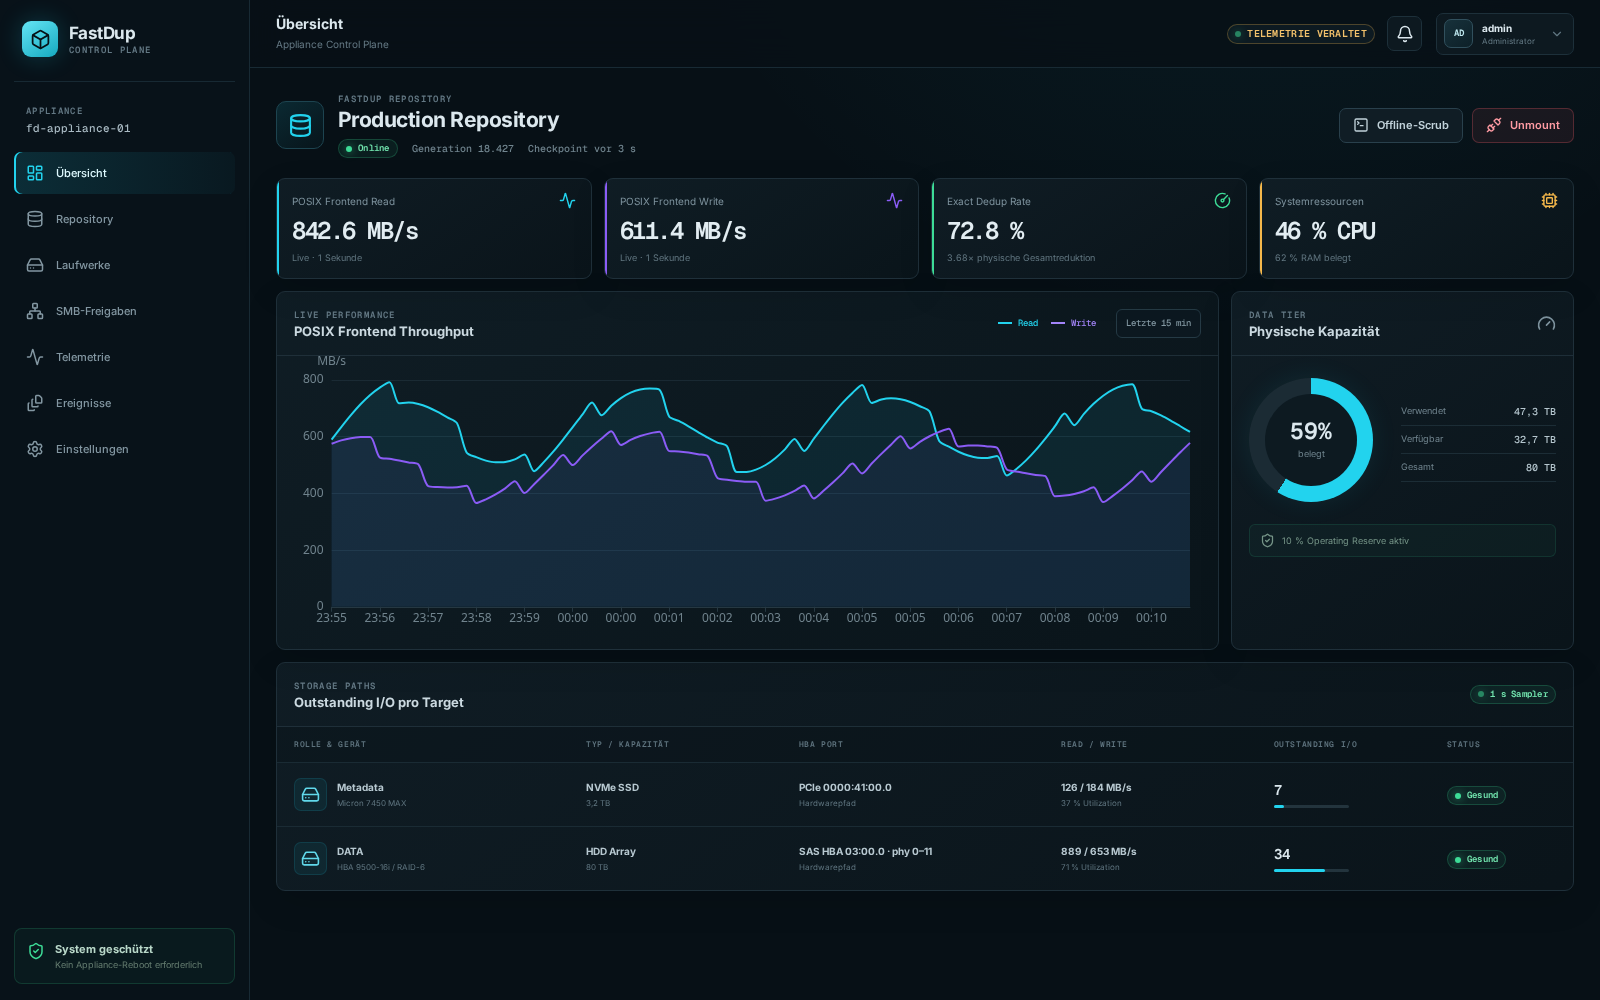
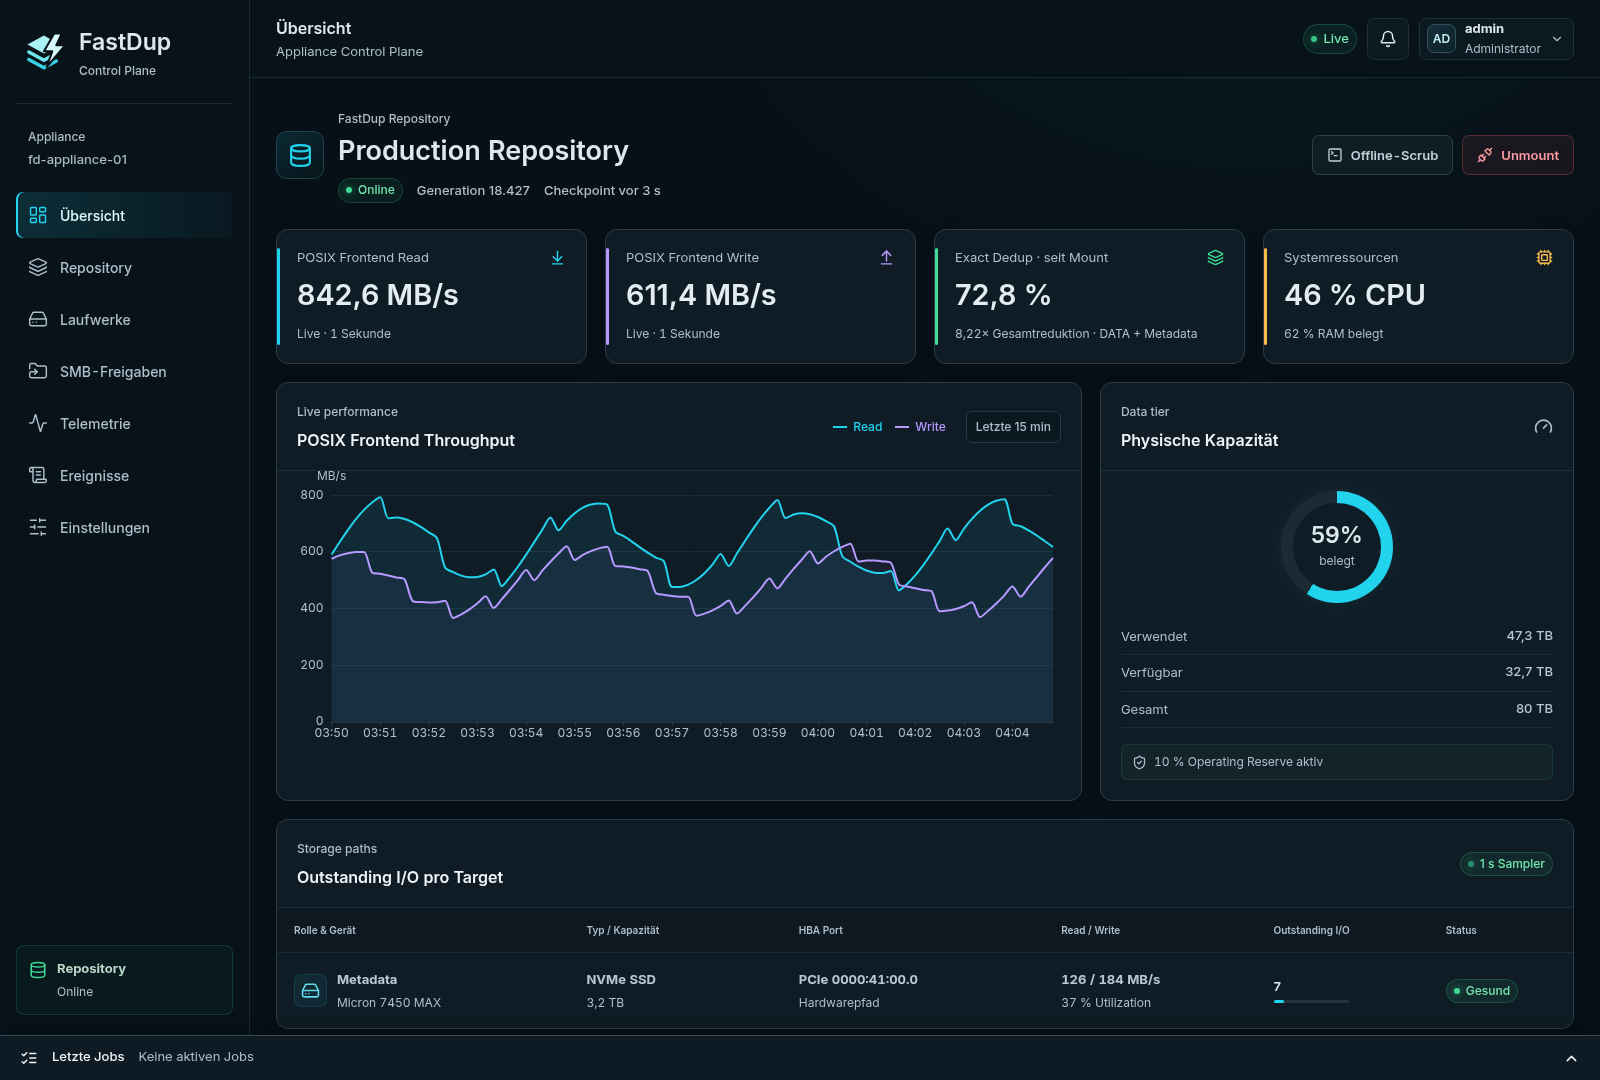
Release v0.7.3 with compressed caching and Runtime health fixes

diff --git a/docs/index.html b/docs/index.html
@@ -39,9 +39,9 @@
         "name": "fastdup",
         "applicationCategory": "StorageApplication",
         "operatingSystem": "Rocky Linux 10 x86-64",
-        "softwareVersion": "0.7.2",
+        "softwareVersion": "0.7.3",
         "license": "https://www.apache.org/licenses/LICENSE-2.0",
-        "downloadUrl": "https://github.com/ThatIsCraZy/fastdup/releases/download/v0.7.2/fastdup-0.7.2-1.el10.x86_64.rpm",
+        "downloadUrl": "https://github.com/ThatIsCraZy/fastdup/releases/download/v0.7.3/fastdup-0.7.3-1.el10.x86_64.rpm",
         "codeRepository": "https://github.com/ThatIsCraZy/fastdup"
       }
     </script>
@@ -109,12 +109,12 @@
           <div class="hero-actions">
             <a
               class="button primary lang-de"
-              href="https://github.com/ThatIsCraZy/fastdup/releases/download/v0.7.2/fastdup-0.7.2-1.el10.x86_64.rpm"
+              href="https://github.com/ThatIsCraZy/fastdup/releases/download/v0.7.3/fastdup-0.7.3-1.el10.x86_64.rpm"
               >RPM herunterladen <span>↓</span></a
             >
             <a
               class="button primary lang-en"
-              href="https://github.com/ThatIsCraZy/fastdup/releases/download/v0.7.2/fastdup-0.7.2-1.el10.x86_64.rpm"
+              href="https://github.com/ThatIsCraZy/fastdup/releases/download/v0.7.3/fastdup-0.7.3-1.el10.x86_64.rpm"
               >Download RPM <span>↓</span></a
             >
             <a class="button secondary lang-de" href="#installation"
@@ -133,7 +133,7 @@
             data.
           </p>
           <div class="compatibility">
-            <span>RPM v0.7.2</span><span>Rocky Linux 10</span><span>x86-64</span
+            <span>RPM v0.7.3</span><span>Rocky Linux 10</span><span>x86-64</span
             ><span>Rust</span>
           </div>
         </div>
@@ -145,7 +145,7 @@
             src="assets/webui-overview.png"
             alt="fastdup WebUI mit Repository-Zustand, Durchsatz und Kapazität"
             width="1600"
-            height="1000"
+            height="1080"
           />
           <div class="live-chip">
             <i></i><span class="lang-de">WebUI-Vorschau · Beispieldaten</span
@@ -156,16 +156,16 @@
 
       <div class="section-shell release-note">
         <p lang="de" class="lang-de">
-          <b>Neu in v0.7.2 · 09.09.2026:</b> Schnellere bytegenaue Veeam-Clones
-          durch Manifest-Cache und asynchrone Samba-Verarbeitung. Korrigierte
-          Speicherreduktion und übersichtliche Cache- und Lesevermeidungs-Telemetrie.
-          <a href="https://github.com/ThatIsCraZy/fastdup/releases/tag/v0.7.2">Release-Details ↗</a>
+          <b>Neu in v0.7.3 · 09.09.2026:</b> Komprimierter Verified-Read-Cache mit
+          sichtbarer RAM-Ersparnis. Metadata-GC-Crashfix, automatisches Bereinigen
+          toter FUSE-Mounts und klare Meldungen bei Runtime-Ausfällen oder Schreibpausen.
+          <a href="https://github.com/ThatIsCraZy/fastdup/releases/tag/v0.7.3">Release-Details ↗</a>
         </p>
         <p lang="en" class="lang-en">
-          <b>New in v0.7.2 · 9 September 2026:</b> Faster byte-exact Veeam clones
-          with a Manifest cache and asynchronous Samba dispatch. Correct storage
-          reduction and clearer cache and read-avoidance telemetry.
-          <a href="https://github.com/ThatIsCraZy/fastdup/releases/tag/v0.7.2">Release details ↗</a>
+          <b>New in v0.7.3 · 9 September 2026:</b> Compressed Verified Read caching with
+          visible RAM savings. A Metadata-GC crash fix, disconnected FUSE mount
+          cleanup, and clear status for Runtime outages or paused writes.
+          <a href="https://github.com/ThatIsCraZy/fastdup/releases/tag/v0.7.3">Release details ↗</a>
         </p>
       </div>
       <section class="trust-strip" aria-label="Produktmerkmale">
@@ -852,14 +852,14 @@
             <h3 class="lang-de">Betrieb überwachen</h3>
             <h3 class="lang-en">Monitor operations</h3>
             <p class="lang-de">
-              Durchsatz, Reduktion, Kapazität und Alarme im Blick. Die
-              überarbeitete Historien-Aggregation begrenzt den Speicherbedarf;
-              lange Abfragen laufen getrennt vom Netzwerk-Worker.
+              Durchsatz, Belegung und Cache-Wirkung im Blick. Die Top-Leiste
+              zeigt Runtime-Ausfälle und Schreibpausen auch bei erreichbarem
+              Agent. Cache-Trefferraten: letzte fünf Minuten oder seit Mount.
             </p>
             <p class="lang-en">
-              Track throughput, reduction, capacity, and alarms. Updated history
-              aggregation bounds memory use; long queries run separately from
-              the network worker.
+              Track throughput, storage usage and cache effectiveness. The top
+              bar shows Runtime outages and paused writes even while the agent
+              is reachable. Compare cache hits over five minutes or since mount.
             </p>
           </article>
           <article>
@@ -925,12 +925,31 @@
             loading="lazy"
           />
         </figure>
+        <figure class="screen-card">
+          <div>
+            <span class="number">03</span>
+            <h3 class="lang-de">Cache-Wirkung und RAM-Ersparnis</h3>
+            <h3 class="lang-en">Cache effectiveness and RAM savings</h3>
+            <p class="lang-de">
+              Weniger häufig genutzte Verified-Read-Einträge werden komprimiert,
+              wenn sich das lohnt. Die Telemetrie zeigt die tatsächliche
+              RAM-Belegung, enthaltene Nutzdaten und Kosten der Dekompression.
+            </p>
+            <p class="lang-en">
+              Less frequently reused Verified Read entries are compressed when
+              it saves memory. Telemetry shows resident RAM, represented payload
+              bytes, and the cost of decompression.
+            </p>
+          </div>
+          <img src="assets/webui-cache.png"
+            alt="Verified Read cache compression telemetry with sample data"
+            width="1298" height="1273" loading="lazy" />
+        </figure>
         <p class="preview-note lang-de">
-          Screenshots aus der echten React-WebUI mit den mitgelieferten
-          Preview-Daten.
+          WebUI-Vorschau mit synthetischen Beispieldaten.
         </p>
         <p class="preview-note lang-en">
-          Screenshots from the real React WebUI using its bundled preview data.
+          WebUI preview with synthetic sample data.
         </p>
       </section>
 
@@ -1215,10 +1234,10 @@
             </div>
             <pre
               id="install"
-            ><code>curl -fLO https://github.com/ThatIsCraZy/fastdup/releases/download/v0.7.2/fastdup-0.7.2-1.el10.x86_64.rpm &amp;&amp;
-curl -fLO https://github.com/ThatIsCraZy/fastdup/releases/download/v0.7.2/SHA256SUMS &amp;&amp;
+            ><code>curl -fLO https://github.com/ThatIsCraZy/fastdup/releases/download/v0.7.3/fastdup-0.7.3-1.el10.x86_64.rpm &amp;&amp;
+curl -fLO https://github.com/ThatIsCraZy/fastdup/releases/download/v0.7.3/SHA256SUMS &amp;&amp;
 sha256sum --check --ignore-missing SHA256SUMS &amp;&amp;
-sudo dnf install ./fastdup-0.7.2-1.el10.x86_64.rpm &amp;&amp;
+sudo dnf install ./fastdup-0.7.3-1.el10.x86_64.rpm &amp;&amp;
 sudo systemctl enable --now fastdup-agent.service fastdup-control.service</code></pre>
             <p id="copy-status" role="status" aria-live="polite"></p>
             <div class="terminal-result">
@@ -1518,22 +1537,22 @@ sudo systemctl enable --now fastdup-agent.service fastdup-control.service</code>
             See the WebUI. Install the RPM. Evaluate fastdup.
           </h2>
           <p class="lang-de">
-            Release 0.7.2 für Rocky Linux 10 auf x86-64. Forschungsprototyp —
+            Release 0.7.3 für Rocky Linux 10 auf x86-64. Forschungsprototyp —
             bitte nicht als einzige Kopie wichtiger Daten einsetzen.
           </p>
           <p class="lang-en">
-            Release 0.7.2 for Rocky Linux 10 on x86-64. Research prototype —
+            Release 0.7.3 for Rocky Linux 10 on x86-64. Research prototype —
             please do not use it as the only copy of important data.
           </p>
         </div>
         <div>
           <a
             class="button primary lang-de"
-            href="https://github.com/ThatIsCraZy/fastdup/releases/download/v0.7.2/fastdup-0.7.2-1.el10.x86_64.rpm"
+            href="https://github.com/ThatIsCraZy/fastdup/releases/download/v0.7.3/fastdup-0.7.3-1.el10.x86_64.rpm"
             >RPM herunterladen <span>↓</span></a
           ><a
             class="button primary lang-en"
-            href="https://github.com/ThatIsCraZy/fastdup/releases/download/v0.7.2/fastdup-0.7.2-1.el10.x86_64.rpm"
+            href="https://github.com/ThatIsCraZy/fastdup/releases/download/v0.7.3/fastdup-0.7.3-1.el10.x86_64.rpm"
             >Download RPM <span>↓</span></a
           ><a
             class="button secondary"

diff --git a/README.de.md b/README.de.md
@@ -15,9 +15,9 @@
 </p>
 
 <p align="center">
-  <strong><a href="https://github.com/ThatIsCraZy/fastdup/releases/download/v0.7.2/fastdup-0.7.2-1.el10.x86_64.rpm">RPM herunterladen</a></strong>
+  <strong><a href="https://github.com/ThatIsCraZy/fastdup/releases/download/v0.7.3/fastdup-0.7.3-1.el10.x86_64.rpm">RPM herunterladen</a></strong>
   · <a href="https://thatiscrazy.github.io/fastdup/">Produktseite</a>
-  · <a href="https://github.com/ThatIsCraZy/fastdup/releases/tag/v0.7.2">Release-Informationen</a>
+  · <a href="https://github.com/ThatIsCraZy/fastdup/releases/tag/v0.7.3">Release-Informationen</a>
 </p>
 
 fastdup ist eine experimentelle, softwaredefinierte Single-Node-
@@ -31,6 +31,25 @@ HTTPS-WebUI hält die Administration einfach.
 > fastdup ist ein Forschungsprototyp und kein produktionsreifes Backup-Produkt.
 > Verwende es nicht als einzige Kopie wichtiger Daten. Die aktuellen Grenzen
 > sind weiter unten aufgeführt.
+
+## Neu in v0.7.3 · 9. September 2026
+
+- Verified Read hält seltener wiederverwendete Nutzdaten unabhängig mit LZ4
+  komprimiert, wenn das RAM spart. Häufig genutzte Daten können dekomprimiert
+  bleiben; beide Darstellungen teilen sich das adaptive Cache-Budget.
+- Die Telemetrie zeigt direkt und komprimiert belegtes RAM, enthaltene Nutzdaten,
+  Speicherersparnis, Codec-Kosten und den begrenzten Arbeitsspeicher der Codecs.
+- Behebt den Metadata-GC-Absturz beim erneuten Veröffentlichen gleicher Inhalte
+  nach einer gleichzeitigen Pin-Freigabe oder unterbrochenen exakten Sammlung.
+- Runtime-Ausfälle und pausierte Schreibzugriffe bleiben in der Top-Leiste
+  sichtbar. Ein erreichbarer Agent gilt nicht mehr als gesundes Repository;
+  fehlende Runtime-Messpunkte verwerfen alte Durchsatzwerte.
+- Nach einem Crash bereinigt der Start einen getrennten FUSE-Mount unter der
+  Repository-Sperre und führt anschließend die normale Recovery aus.
+
+[Release-Details v0.7.3](docs/releases/v0.7.3.md) · RPM-Version **0.7.3-1**.
+[Cache-Prüfungen](docs/testing/compressed-read-cache-2026-09-09.md) ·
+[Crash- und Statusprüfungen](docs/testing/metadata-gc-crash-2026-09-09.md).
 
 ## Neu in v0.7.2 · 9. September 2026
 
@@ -194,11 +213,11 @@ Benötigt werden:
 Aktuelles Binärpaket herunterladen und installieren:
 
 ```bash
-curl -LO https://github.com/ThatIsCraZy/fastdup/releases/download/v0.7.2/fastdup-0.7.2-1.el10.x86_64.rpm
-curl -LO https://github.com/ThatIsCraZy/fastdup/releases/download/v0.7.2/SHA256SUMS
+curl -LO https://github.com/ThatIsCraZy/fastdup/releases/download/v0.7.3/fastdup-0.7.3-1.el10.x86_64.rpm
+curl -LO https://github.com/ThatIsCraZy/fastdup/releases/download/v0.7.3/SHA256SUMS
 sha256sum --check --ignore-missing SHA256SUMS
 
-sudo dnf install ./fastdup-0.7.2-1.el10.x86_64.rpm
+sudo dnf install ./fastdup-0.7.3-1.el10.x86_64.rpm
 sudo systemctl enable --now fastdup-agent.service fastdup-control.service
 ```
 
@@ -242,9 +261,9 @@ ausgeliefert. Über eine einzige Browseroberfläche kann ein Administrator:
 | --- | --- |
 | ![Repository-Belegung in der fastdup-WebUI](docs/assets/webui-drives.png) | ![Verwaltung von SMB-Freigaben in der fastdup-WebUI](docs/assets/webui-shares.png) |
 
-<p align="center"><em>Die Screenshots stammen automatisiert aus der echten React-WebUI und verwenden deren mitgelieferte Preview-Daten.</em></p>
+<p align="center"><em>WebUI-Vorschau mit synthetischen Beispieldaten.</em></p>
 
-![Cache-Trefferraten der letzten fünf Minuten mit Beispieldaten](docs/assets/webui-cache.png)
+![Cache-Trefferraten der letzten fünf Minuten und Verified-Read-RAM-Kompression mit Beispieldaten](docs/assets/webui-cache.png)
 
 ## Ersteinrichtung
 

diff --git a/README.md b/README.md
@@ -15,9 +15,9 @@
 </p>
 
 <p align="center">
-  <strong><a href="https://github.com/ThatIsCraZy/fastdup/releases/download/v0.7.2/fastdup-0.7.2-1.el10.x86_64.rpm">Download the RPM</a></strong>
+  <strong><a href="https://github.com/ThatIsCraZy/fastdup/releases/download/v0.7.3/fastdup-0.7.3-1.el10.x86_64.rpm">Download the RPM</a></strong>
   · <a href="https://thatiscrazy.github.io/fastdup/">Product page</a>
-  · <a href="https://github.com/ThatIsCraZy/fastdup/releases/tag/v0.7.2">Release notes</a>
+  · <a href="https://github.com/ThatIsCraZy/fastdup/releases/tag/v0.7.3">Release notes</a>
 </p>
 
 fastdup is an experimental, software-defined single-node storage appliance for
@@ -29,6 +29,25 @@ high throughput, while the embedded HTTPS WebUI keeps administration simple.
 > [!WARNING]
 > fastdup is a research prototype, not a production backup product. Do not use
 > it as the only copy of important data. Current limitations are listed below.
+
+## New in v0.7.3 · 9 September 2026
+
+- Verified Read retains less frequently reused payloads independently compressed
+  with LZ4 when that saves RAM. Frequently reused data can remain decoded; both
+  representations compete within the existing adaptive cache budget.
+- Cache telemetry shows decoded and compressed RAM, represented payload bytes,
+  saved memory, codec costs and bounded workspace use.
+- Fix a Metadata-GC crash when collected content is published again after a
+  concurrent pin release or an interrupted exact collection.
+- Runtime loss and paused writes appear persistently in the WebUI top bar.
+  Live agent telemetry no longer implies a healthy repository, and missing
+  Runtime samples clear stale throughput.
+- Startup reclaims a disconnected FUSE mount after acquiring the repository
+  lease, then performs normal recovery.
+
+[Release notes v0.7.3](docs/releases/v0.7.3.md) · RPM version **0.7.3-1**.
+[Cache qualification](docs/testing/compressed-read-cache-2026-09-09.md) ·
+[Crash and Runtime-health qualification](docs/testing/metadata-gc-crash-2026-09-09.md).
 
 ## New in v0.7.2 · 9 September 2026
 
@@ -190,11 +209,11 @@ You need:
 Download and install the current binary package:
 
 ```bash
-curl -LO https://github.com/ThatIsCraZy/fastdup/releases/download/v0.7.2/fastdup-0.7.2-1.el10.x86_64.rpm
-curl -LO https://github.com/ThatIsCraZy/fastdup/releases/download/v0.7.2/SHA256SUMS
+curl -LO https://github.com/ThatIsCraZy/fastdup/releases/download/v0.7.3/fastdup-0.7.3-1.el10.x86_64.rpm
+curl -LO https://github.com/ThatIsCraZy/fastdup/releases/download/v0.7.3/SHA256SUMS
 sha256sum --check --ignore-missing SHA256SUMS
 
-sudo dnf install ./fastdup-0.7.2-1.el10.x86_64.rpm
+sudo dnf install ./fastdup-0.7.3-1.el10.x86_64.rpm
 sudo systemctl enable --now fastdup-agent.service fastdup-control.service
 ```
 
@@ -237,9 +256,9 @@ single browser interface, an administrator can:
 | --- | --- |
 | ![Repository storage usage in the fastdup WebUI](docs/assets/webui-drives.png) | ![SMB share management in the fastdup WebUI](docs/assets/webui-shares.png) |
 
-<p align="center"><em>These screenshots are generated from the real React WebUI using its bundled preview dataset.</em></p>
+<p align="center"><em>WebUI preview with synthetic sample data.</em></p>
 
-![Five-minute cache hit rates with sample data](docs/assets/webui-cache.png)
+![Five-minute cache hit rates and Verified Read RAM compression with sample data](docs/assets/webui-cache.png)
 
 ## First-time setup
 

diff --git a/docs/releases/v0.7.3.md b/docs/releases/v0.7.3.md
@@ -1,0 +1,26 @@
+# fastdup v0.7.3
+
+RPM `fastdup-0.7.3-1.el10.x86_64.rpm` for Rocky Linux 10 x86-64.
+
+fastdup v0.7.3 ships adaptive compressed Verified Read caching and fixes the Metadata-GC republication crash, with accurate Runtime health in the WebUI.
+
+- Independently compress cold verified payloads with LZ4 when it saves RAM. Hot decoded entries share the same adaptive budget; no backend Base or Dictionary read is required to reuse a compressed entry.
+- Show compressed/decoded occupancy, represented payload bytes, saved RAM, codec costs and workspace usage in Telemetry.
+- Retire stale Metadata-GC journal additions before exact collection. Reusing previously collected content after a concurrent pin release or interrupted collection no longer triggers the duplicate-addition assertion.
+- Report Runtime loss and write pauses in the persistent topbar, reset stale throughput and audit health transitions. A live management agent no longer implies a healthy repository.
+- Reclaim disconnected FUSE mountpoints after acquiring the appliance lease, then recover normally.
+- Refresh English/German README, product page, screenshots and download links.
+
+Validation: 58 GC/maintenance tests, 39 Control tests, 15 Runtime tests and 44 UI tests passed for the included crash/status fix. Cache qualification additionally covers compression integrity, memory accounting and a bounded workload A/B benchmark. The same runtime changes were verified on the test appliance in 0.7.2-2: automatic stale-mount cleanup, successful recovery, updated HTTPS UI and authenticated 8 MiB SMB round trip with matching SHA-256. A complete Veeam retry remains pending.
+
+No durable format migration is required. Install the RPM for Rocky Linux 10 x86-64 during a maintenance interval; replacing files alone does not restart running Runtime/Samba processes. Verify the download with SHA256SUMS. FastDup remains a research prototype; retain independent backups.
+
+Release validation: the locked Rust release build, TypeScript/Vite UI build and RPM build passed. The product page was checked in German and English at 1440 px and 390 px, including screenshots and release/download links, without browser errors or horizontal overflow.
+
+[Cache qualification](../testing/compressed-read-cache-2026-09-09.md) ·
+[Crash and Runtime-health qualification](../testing/metadata-gc-crash-2026-09-09.md).
+
+```sh
+sha256sum --check --ignore-missing SHA256SUMS
+sudo dnf install ./fastdup-0.7.3-1.el10.x86_64.rpm
+```
